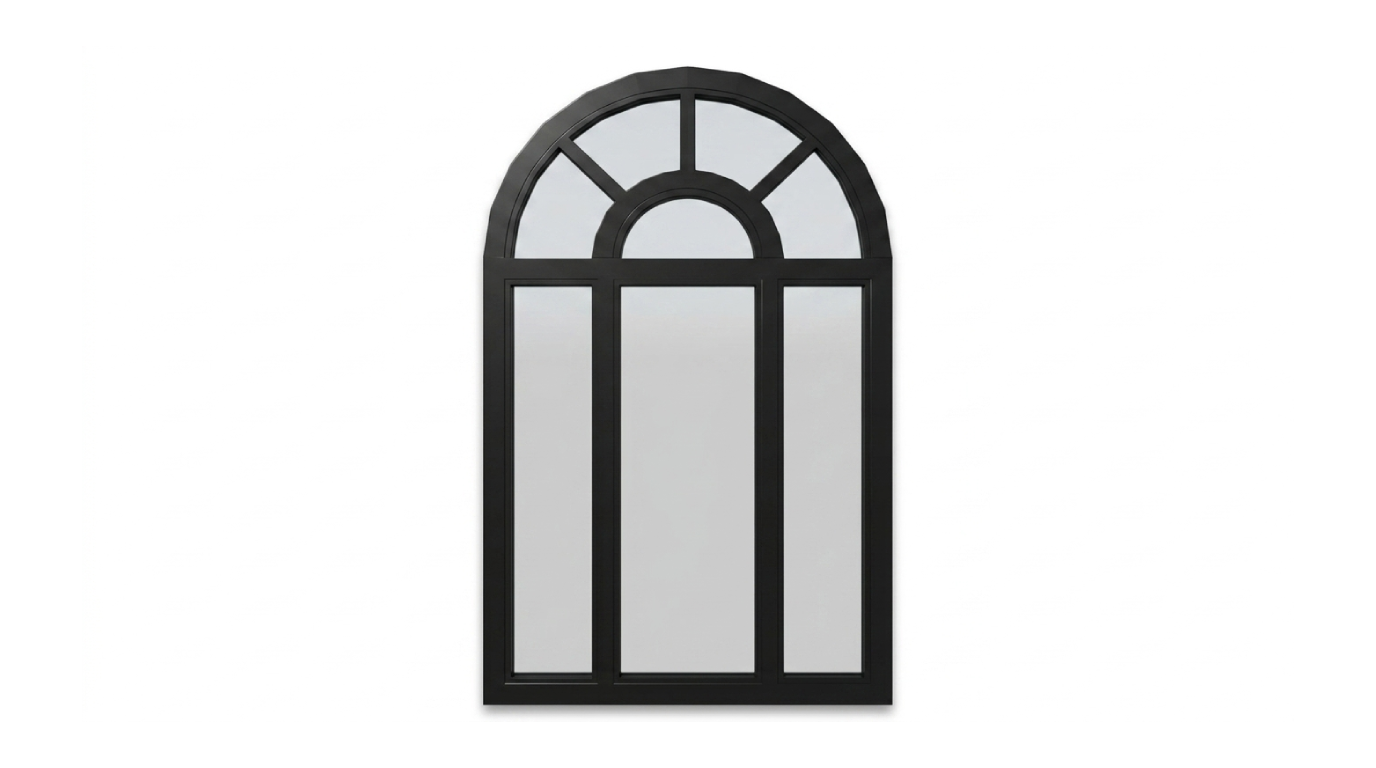
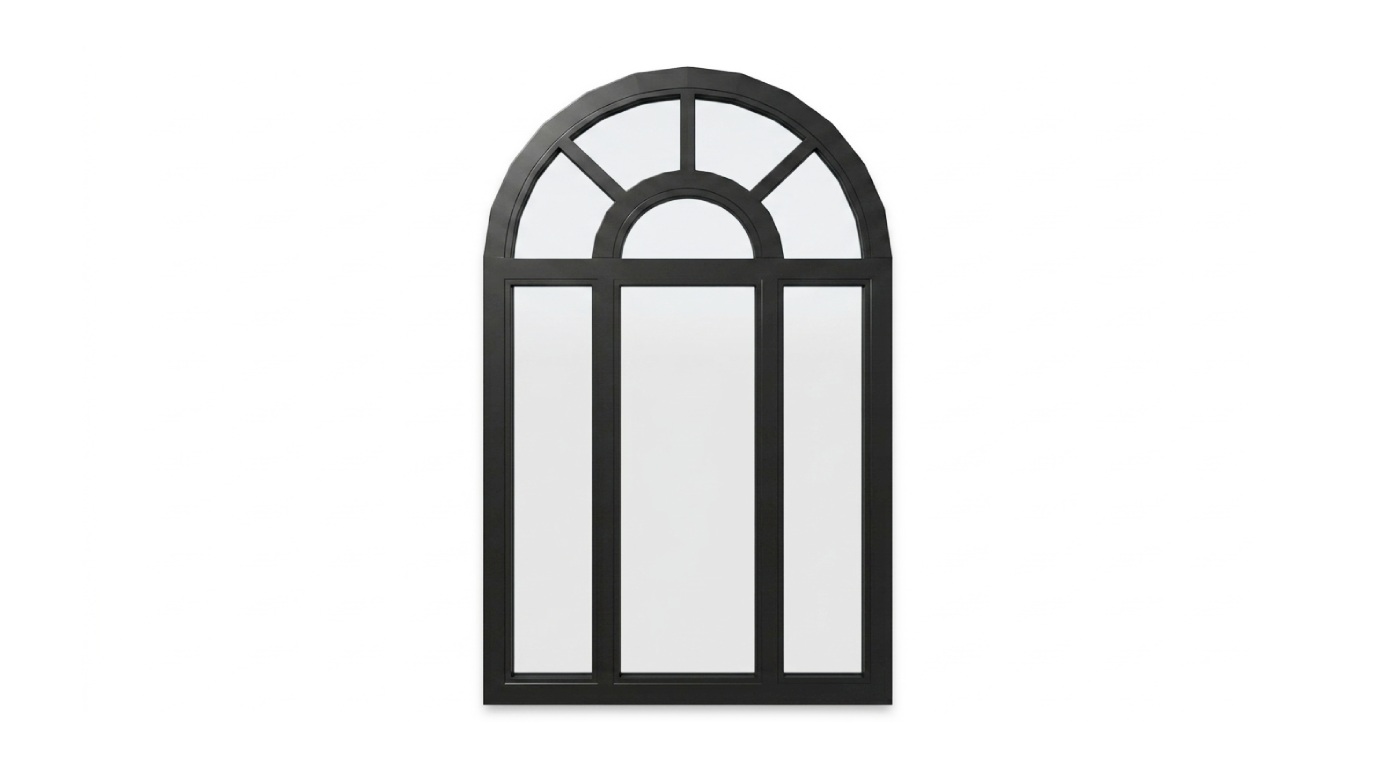
fxxx

Changed region(s): [[0.375, 0.375, 0.625, 0.875], [0.3438, 0.9062, 0.6562, 0.9375], [0.375, 0.125, 0.5312, 0.2188]]

diff --git a/src/components/home/FinishExplorer.tsx b/src/components/home/FinishExplorer.tsx
@@ -5,7 +5,7 @@ import { cn } from "@/lib/utils";
 interface ProductEntry {
   id: string;
   label: string;
-  category: "windows" | "doors";
+  category: "windows" | "doors" | "specialist";
 }
 
 const PRODUCTS: ProductEntry[] = [
@@ -20,6 +20,9 @@ const PRODUCTS: ProductEntry[] = [
   { id: "large-panel", label: "Large Panel", category: "doors" },
   { id: "lift-and-slide", label: "Lift & Slide", category: "doors" },
   { id: "90-series", label: "90 Series", category: "doors" },
+  { id: "arch-shapes", label: "Arch Shapes", category: "specialist" },
+  { id: "curtain-wall", label: "Curtain Wall", category: "specialist" },
+  { id: "custom-shapes", label: "Custom Shapes", category: "specialist" },
 ];
 
 const FINISH_TO_FILE: Record<string, string> = {
@@ -82,10 +85,13 @@ function CrossfadeImage({ src, alt }: { src: string; alt: string }) {
 
 export default function FinishExplorer() {
   const [selectedProduct, setSelectedProduct] = useState(PRODUCTS[0]);
-  const [selectedFinish, setSelectedFinish] = useState(FRAME_FINISHES[0]);
+  const [selectedFinish, setSelectedFinish] = useState(
+    FRAME_FINISHES.find((f) => f.id === "charcoal-gray") ?? FRAME_FINISHES[0],
+  );
 
   const windows = PRODUCTS.filter((p) => p.category === "windows");
   const doors = PRODUCTS.filter((p) => p.category === "doors");
+  const specialist = PRODUCTS.filter((p) => p.category === "specialist");
 
   return (
     <div className="grid lg:grid-cols-[280px,1fr] gap-8 lg:gap-12">
@@ -114,6 +120,25 @@ export default function FinishExplorer() {
           <p className="eyebrow mb-3">Doors</p>
           <div className="flex flex-col gap-1">
             {doors.map((p) => (
+              <button
+                key={p.id}
+                onClick={() => setSelectedProduct(p)}
+                className={cn(
+                  "text-left px-3 py-2 text-sm font-medium transition-colors border",
+                  selectedProduct.id === p.id
+                    ? "border-[color:var(--ink-primary)] bg-[color:var(--ink-primary)] text-white"
+                    : "border-transparent hover:border-[color:var(--rule-soft)] text-[color:var(--ink-secondary)]"
+                )}
+              >
+                {p.label}
+              </button>
+            ))}
+          </div>
+        </div>
+        <div>
+          <p className="eyebrow mb-3">Specialist</p>
+          <div className="flex flex-col gap-1">
+            {specialist.map((p) => (
               <button
                 key={p.id}
                 onClick={() => setSelectedProduct(p)}

diff --git a/scripts/generate-specialist-finishes.py b/scripts/generate-specialist-finishes.py
@@ -1,0 +1,266 @@
+#!/usr/bin/env python3
+"""
+Generate finish variants for specialist products.
+Step 1: AI (Gemini) generates ONLY oaklight base for each product.
+Step 2: Python masking script uses original vs oaklight comparison to create
+        frame mask, then applies all other textures/solid colors via masking.
+"""
+
+import os
+import sys
+import time
+import numpy as np
+from pathlib import Path
+from PIL import Image, ImageFilter
+
+from google import genai
+from google.genai import types
+
+PROJECT_ROOT = Path(__file__).resolve().parent.parent
+WP_EXPORT = PROJECT_ROOT / "public" / "images" / "wp-export"
+TEXTURES = PROJECT_ROOT / "public" / "images" / "finishes" / "textures"
+OUTPUT = PROJECT_ROOT / "public" / "images" / "product-finishes"
+
+SPECIALIST_PRODUCTS = {
+    "arch-shapes": {
+        "file": "archshapes.png",
+        "desc": "arched window with a semi-circular top divided into fan-shaped panes above three tall vertical panes, uPVC frame",
+    },
+    "curtain-wall": {
+        "file": "curtainwall.png",
+        "desc": "curtain wall system with six glass panels arranged in a 2x3 grid, thick uPVC mullions and transoms",
+    },
+    "custom-shapes": {
+        "file": "customshapes.png",
+        "desc": "circular porthole-style fixed window with a thick round uPVC frame",
+    },
+}
+
+WOOD_FINISHES = {
+    "oaklight": "oak-light.png",
+    "oakmalt": "oak-malt.jpeg",
+    "darkoak": "dark-oak.jpeg",
+    "walnut": "walnut.jpeg",
+    "goldenoak": "golden-oak.jpg",
+    "blackwood": "black-wood.jpeg",
+    "graywood": "gray-wood.jpeg",
+}
+
+SOLID_FINISHES = {
+    "white": (255, 255, 255),
+    "silica-cream": (232, 220, 200),
+    "jet-black": (28, 28, 30),
+    "charcoal-gray": (74, 74, 76),
+    "matte-quartz": (184, 176, 164),
+}
+
+
+# ─── Step 1: AI-generate oaklight base ───────────────────────────────────────
+
+def mime_for(filename: str) -> str:
+    ext = filename.rsplit(".", 1)[-1].lower()
+    return {"png": "image/png", "jpg": "image/jpeg", "jpeg": "image/jpeg"}.get(ext, "image/png")
+
+
+def generate_oaklight_base(client, product_id: str, product_info: dict, oaklight_dir: Path):
+    out_path = oaklight_dir / f"{product_id}-oaklight.png"
+    if out_path.exists():
+        print(f"  SKIP {out_path.name} (exists)")
+        return out_path
+
+    base_path = WP_EXPORT / product_info["file"]
+    texture_path = TEXTURES / "oak-light.png"
+
+    with open(base_path, "rb") as f:
+        base_bytes = f.read()
+    with open(texture_path, "rb") as f:
+        texture_bytes = f.read()
+
+    prompt = (
+        f"Replace the frame material on this {product_info['desc']}. "
+        f"Change the dark/black uPVC frame to oak light wood finish — pale golden blonde with soft fine grain. "
+        f"Use the second image as the exact texture reference for the wood grain pattern and color. "
+        f"PRESERVE: transparent/reflective glass panes, white/light background, exact window shape and proportions, "
+        f"any black metal hardware (handles, hinges, locks). "
+        f"The wood grain should follow the frame direction — vertical on vertical members, horizontal on horizontal members, "
+        f"radiating on curved sections. "
+        f"Photorealistic product photography, studio lighting, clean white background. "
+        f"Output the image at the EXACT same dimensions and aspect ratio as the input image."
+    )
+
+    response = client.models.generate_content(
+        model="gemini-2.5-flash-image",
+        contents=[
+            types.Part.from_bytes(data=base_bytes, mime_type=mime_for(product_info["file"])),
+            types.Part.from_bytes(data=texture_bytes, mime_type="image/png"),
+            prompt,
+        ],
+        config=types.GenerateContentConfig(response_modalities=["IMAGE", "TEXT"]),
+    )
+
+    for part in response.candidates[0].content.parts:
+        if part.inline_data is not None:
+            with open(out_path, "wb") as f:
+                f.write(part.inline_data.data)
+            print(f"  OK {out_path.name} ({len(part.inline_data.data) / 1024:.0f} KB)")
+            return out_path
+
+    print(f"  FAIL {out_path.name} — no image in response")
+    return None
+
+
+# ─── Step 2: Masking pipeline ────────────────────────────────────────────────
+
+def create_frame_mask(original: Image.Image, oaklight: Image.Image) -> Image.Image:
+    """
+    Compare original (dark frame) vs AI oaklight (light frame) to find frame pixels.
+    Frame pixels are dark in original but became light in the oaklight version.
+    """
+    orig_resized = original.convert("L")
+    oak_resized = oaklight.resize(original.size, Image.LANCZOS).convert("L")
+
+    orig_arr = np.array(orig_resized)
+    oak_arr = np.array(oak_resized)
+
+    dark_in_original = orig_arr < 100
+    light_in_oaklight = oak_arr > 70
+    bright_background = orig_arr > 200
+
+    frame_mask = dark_in_original & light_in_oaklight & ~bright_background
+
+    mask_img = Image.fromarray((frame_mask * 255).astype(np.uint8))
+    mask_img = mask_img.filter(ImageFilter.MedianFilter(3))
+
+    return mask_img
+
+
+def apply_wood_texture(original: Image.Image, mask: Image.Image, texture_path: Path) -> Image.Image:
+    """Tile wood texture across frame area defined by mask."""
+    texture = Image.open(texture_path).convert("RGB")
+    result = original.copy().convert("RGB")
+    w, h = result.size
+    tw, th = texture.size
+
+    tiled = Image.new("RGB", (w, h))
+    for y in range(0, h, th):
+        for x in range(0, w, tw):
+            tiled.paste(texture, (x, y))
+
+    orig_gray = original.convert("L")
+    orig_arr = np.array(orig_gray).astype(np.float32)
+    p2, p98 = np.percentile(orig_arr[np.array(mask) > 128], [2, 98]) if np.any(np.array(mask) > 128) else (0, 255)
+
+    if p98 > p2:
+        shading = (orig_arr - p2) / (p98 - p2)
+        shading = np.clip(shading, 0.3, 1.0)
+    else:
+        shading = np.ones_like(orig_arr)
+
+    tiled_arr = np.array(tiled).astype(np.float32)
+    for c in range(3):
+        tiled_arr[:, :, c] *= shading
+
+    tiled_shaded = Image.fromarray(np.clip(tiled_arr, 0, 255).astype(np.uint8))
+
+    mask_blur = mask.filter(ImageFilter.GaussianBlur(1.5))
+    result.paste(tiled_shaded, mask=mask_blur)
+    return result
+
+
+def apply_solid_color(original: Image.Image, mask: Image.Image, color: tuple) -> Image.Image:
+    """Fill frame area with solid color, preserving shading for depth."""
+    result = original.copy().convert("RGB")
+    w, h = result.size
+
+    orig_gray = original.convert("L")
+    orig_arr = np.array(orig_gray).astype(np.float32)
+    mask_arr = np.array(mask)
+
+    frame_pixels = mask_arr > 128
+    if np.any(frame_pixels):
+        p2, p98 = np.percentile(orig_arr[frame_pixels], [2, 98])
+    else:
+        p2, p98 = 0, 255
+
+    if p98 > p2:
+        shading = (orig_arr - p2) / (p98 - p2)
+        shading = np.clip(shading, 0.4, 1.0)
+    else:
+        shading = np.ones_like(orig_arr)
+
+    solid = np.full((h, w, 3), color, dtype=np.float32)
+    for c in range(3):
+        solid[:, :, c] *= shading
+
+    solid_img = Image.fromarray(np.clip(solid, 0, 255).astype(np.uint8))
+
+    mask_blur = mask.filter(ImageFilter.GaussianBlur(1.5))
+    result.paste(solid_img, mask=mask_blur)
+    return result
+
+
+def generate_all_finishes(product_id: str, original_path: Path, oaklight_path: Path):
+    """Generate all finish variants for one product using masking."""
+    original = Image.open(original_path).convert("RGB")
+    oaklight = Image.open(oaklight_path).convert("RGB")
+
+    print(f"  Creating frame mask...")
+    mask = create_frame_mask(original, oaklight)
+
+    for finish_id, texture_file in WOOD_FINISHES.items():
+        out_path = OUTPUT / f"{product_id}-{finish_id}.jpeg"
+        if out_path.exists():
+            print(f"  SKIP {out_path.name} (exists)")
+            continue
+
+        texture_path = TEXTURES / texture_file
+        result = apply_wood_texture(original, mask, texture_path)
+        result.save(out_path, "JPEG", quality=92)
+        print(f"  OK {out_path.name} ({out_path.stat().st_size / 1024:.0f} KB)")
+
+    for finish_id, color in SOLID_FINISHES.items():
+        out_path = OUTPUT / f"{product_id}-{finish_id}.jpeg"
+        if out_path.exists():
+            print(f"  SKIP {out_path.name} (exists)")
+            continue
+
+        result = apply_solid_color(original, mask, color)
+        result.save(out_path, "JPEG", quality=92)
+        print(f"  OK {out_path.name} ({out_path.stat().st_size / 1024:.0f} KB)")
+
+
+# ─── Main ────────────────────────────────────────────────────────────────────
+
+def main():
+    api_key = os.environ.get("GEMINI_API_KEY")
+    if not api_key:
+        print("ERROR: GEMINI_API_KEY not set")
+        sys.exit(1)
+
+    client = genai.Client(api_key=api_key)
+    OUTPUT.mkdir(parents=True, exist_ok=True)
+    oaklight_dir = PROJECT_ROOT / "scripts" / "oaklight-bases"
+    oaklight_dir.mkdir(parents=True, exist_ok=True)
+
+    for product_id, product_info in SPECIALIST_PRODUCTS.items():
+        print(f"\n{'='*50}")
+        print(f"STEP 1: AI oaklight base — {product_id}")
+        print(f"{'='*50}")
+
+        oaklight_path = generate_oaklight_base(client, product_id, product_info, oaklight_dir)
+        if oaklight_path is None:
+            print(f"  Skipping {product_id} — oaklight generation failed")
+            continue
+        time.sleep(1)
+
+        print(f"\n  STEP 2: Python masking — {product_id}")
+        print(f"  {'-'*40}")
+
+        original_path = WP_EXPORT / product_info["file"]
+        generate_all_finishes(product_id, original_path, oaklight_path)
+
+    print(f"\nDone. Finish variants in {OUTPUT}")
+
+
+if __name__ == "__main__":
+    main()
